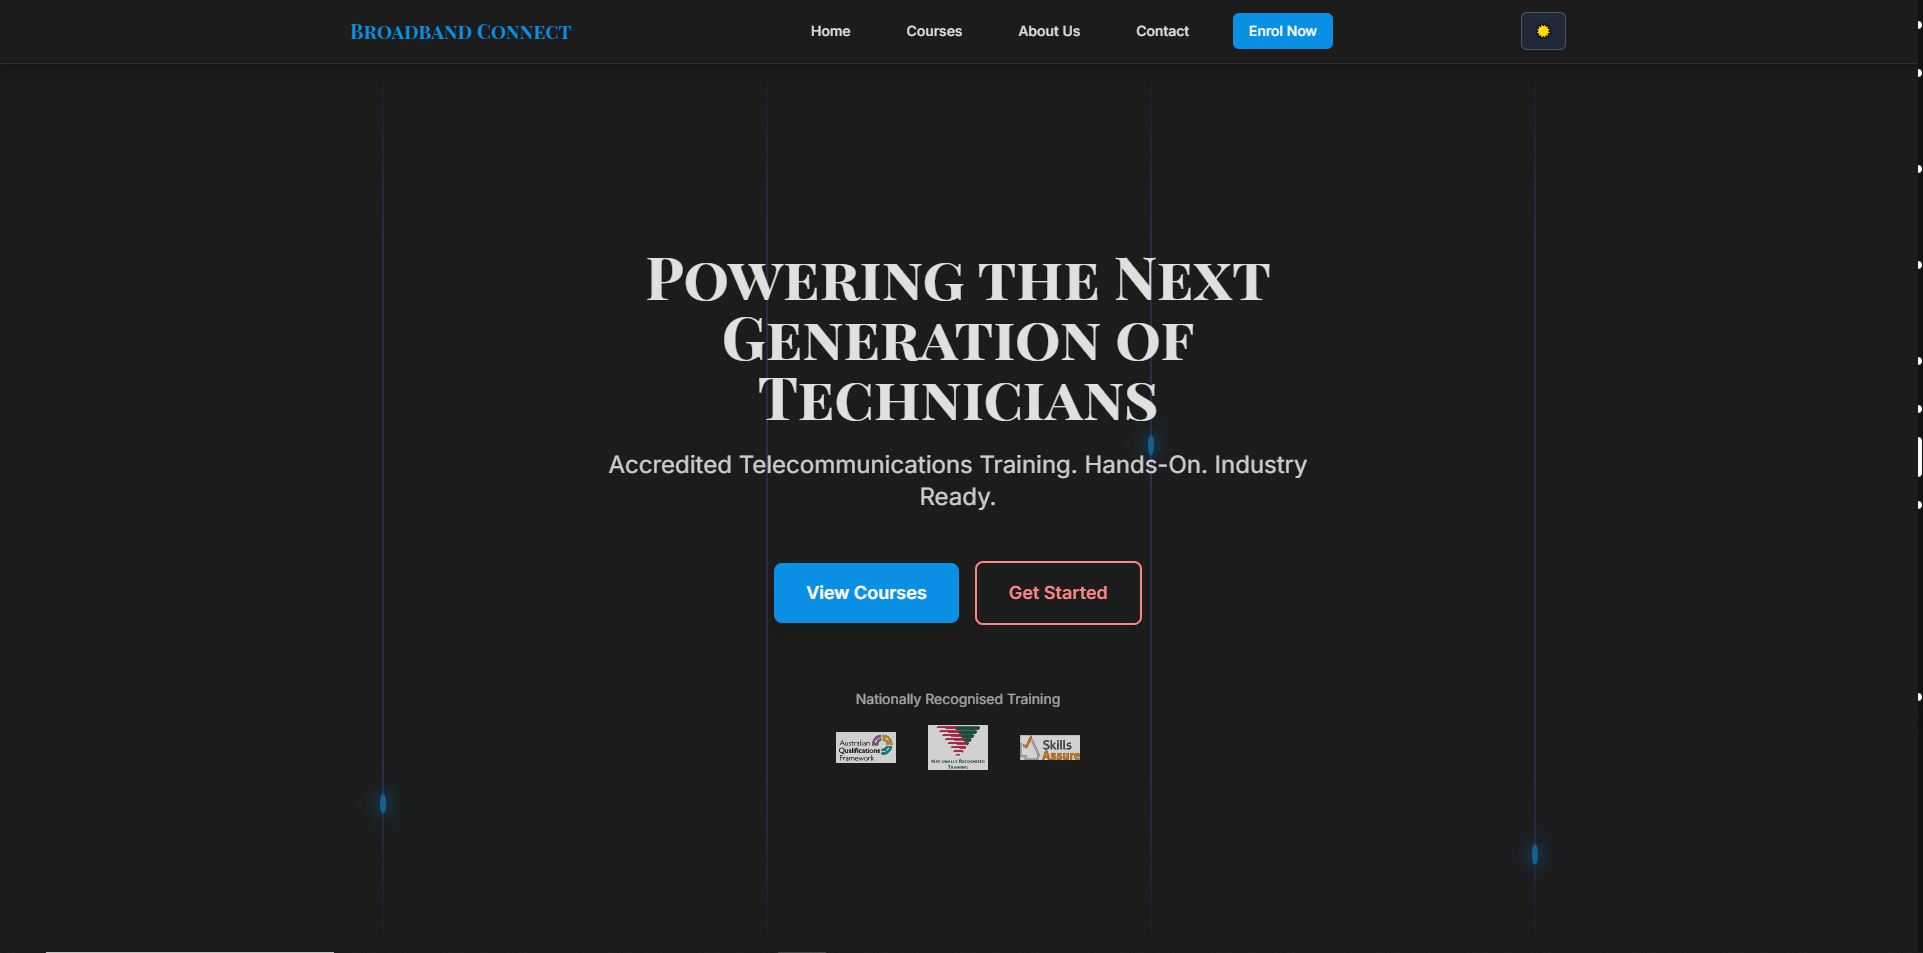
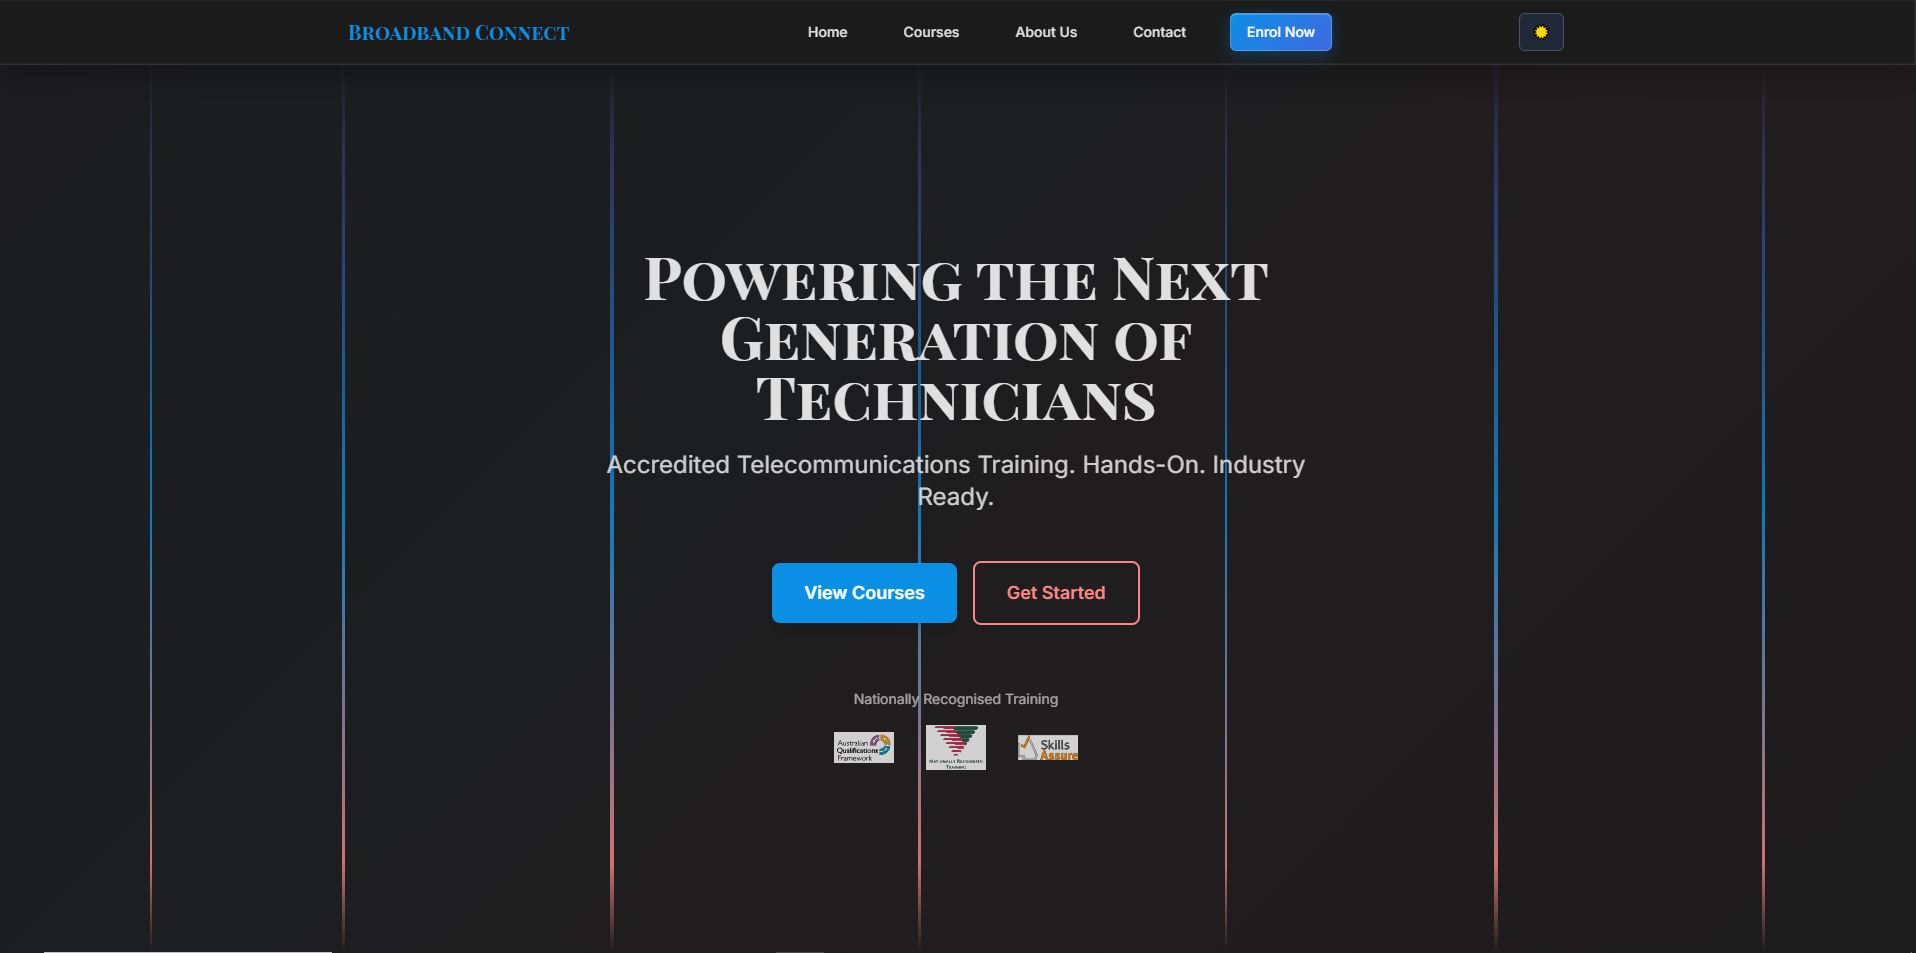
Integrate glassmorphism navigation and featured courses section
- Add ScrollProgress component to layout for visual test
- Import and render FeaturedCourses section in main page
- Add debug styles and inline glassmorphism to Navigation
- Bump package version to force fresh Vercel build
- Test CSS module loading with fallback styles

🤖 Generated with [Claude Code](https://claude.ai/code)

diff --git a/src/components/Navigation/Navigation.jsx b/src/components/Navigation/Navigation.jsx
@@ -63,11 +63,18 @@ export default function Navigation() {
     ${styles.nav} 
     ${isScrolled ? styles.scrolled : ''} 
     ${isDark ? styles.dark : ''}
+    bg-red-500
   `.trim()
 
   return (
     <nav 
       className={navClasses}
+      style={{
+        background: 'rgba(255, 255, 255, 0.05)',
+        backdropFilter: 'blur(20px)',
+        border: '1px solid rgba(255, 255, 255, 0.2)',
+        boxShadow: '0 8px 32px 0 rgba(31, 38, 135, 0.15), inset 0 0 0 1px rgba(255, 255, 255, 0.1)',
+      }}
       onMouseEnter={() => navHoverHandler?.(true)}
       onMouseLeave={() => navHoverHandler?.(false)}
     >

diff --git a/src/app/layout.js b/src/app/layout.js
@@ -1,5 +1,6 @@
 import './globals.css'
 import Navigation from '@/components/Navigation/Navigation'
+import ScrollProgress from '@/components/ui/ScrollProgress'
 
 export const metadata = {
   title: 'Broadband Connect - Telecommunications Training',
@@ -12,6 +13,7 @@ export default function RootLayout({ children }) {
       <body>
         <div className="min-h-screen">
           <Navigation />
+          <ScrollProgress position="top" variant="fiber" />
           <main className="pt-16">
             {children}
           </main>

diff --git a/src/app/page.js b/src/app/page.js
@@ -4,6 +4,7 @@ import Link from 'next/link'
 import Image from 'next/image'
 import { useState } from 'react'
 import FiberAnimation from '@/components/FiberAnimation/FiberAnimation'
+import FeaturedCourses from '@/components/sections/FeaturedCourses'
 
 export default function Home() {
   const [hoverHandlers, setHoverHandlers] = useState(null)
@@ -80,5 +81,6 @@ export default function Home() {
         </div>
       </div>
     </section>
+    <FeaturedCourses />
   )
 }
